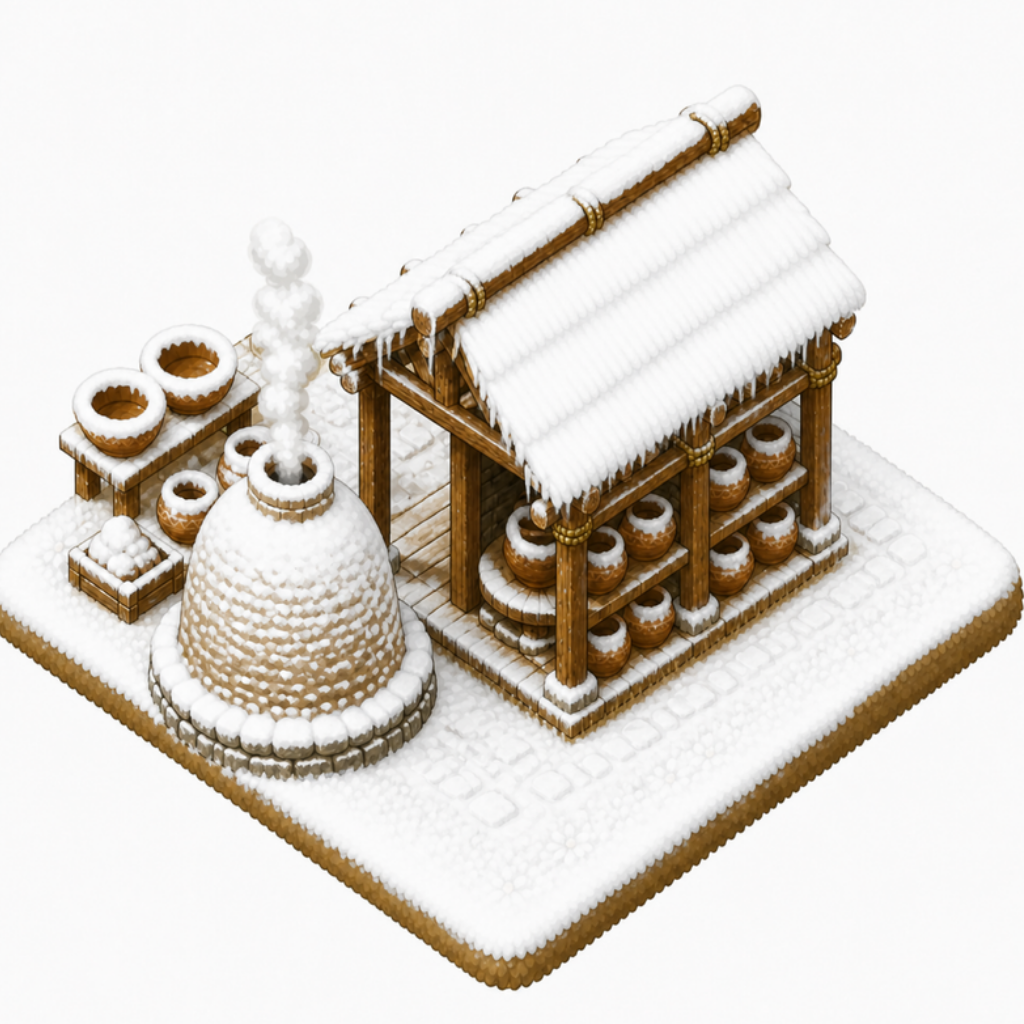
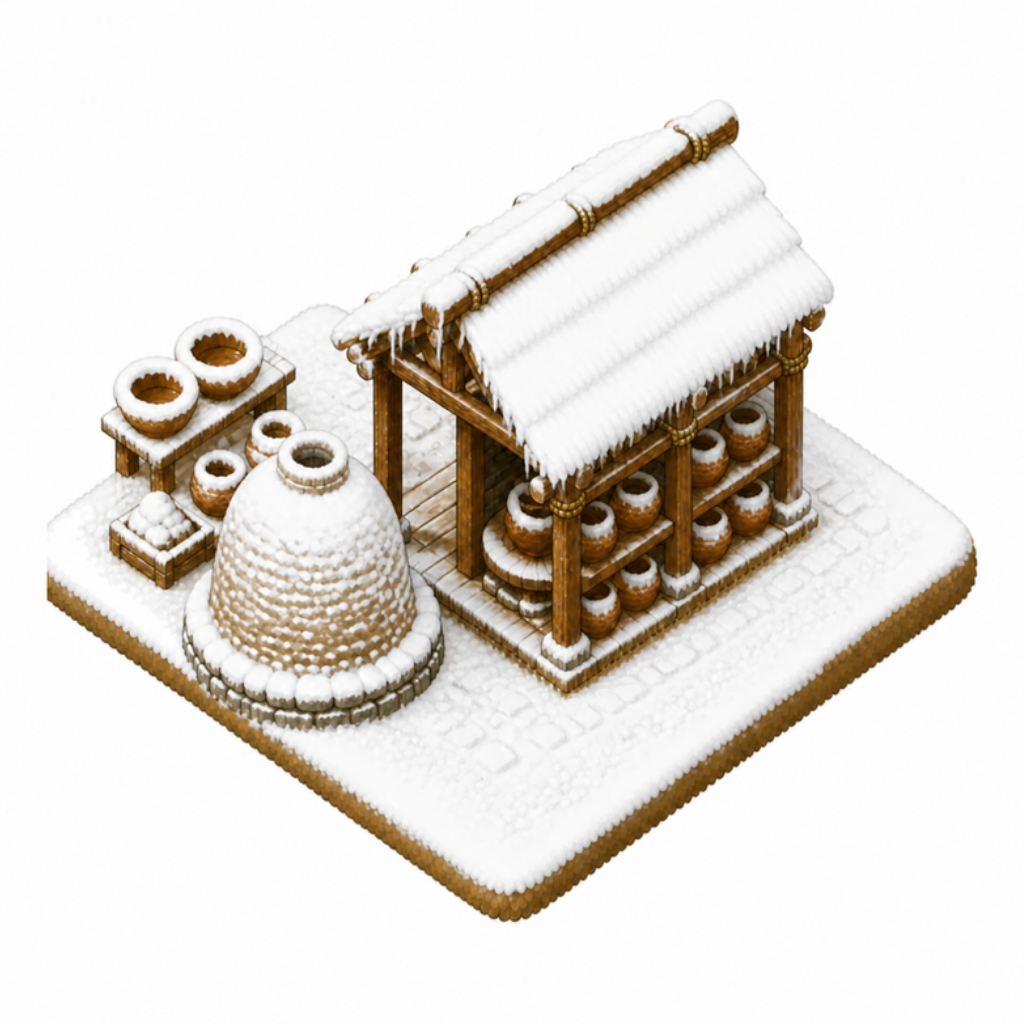
Epochia (gesammelt): Bilder aufgeräumt, Brücken-Holzmuster wird wieder geladen
Claude-Session: https://claude.ai/code/session_01W1n1hdvEnuKJoocRNGs93d

diff --git a/neu/js/zeichnen.js b/neu/js/zeichnen.js
@@ -235,6 +235,7 @@ function median(list) {
 function imageNames() {
   const names = new Set(['start', 'ladebild', 'logo', 'aeltester-1', 'baum-laub', 'baum-tanne', 'baum-birke',
     'fels-gross', 'fels-klein', 'busch', 'blumen', 'erdsockel', 'axt', 'hacke', 'setzling', 'truhe', 'band', 'logo-rund', 'berg-gross', 'berg-klein',
+    'leiste-holz-steinzeit',   // Holzmuster der Brücken (drawBridge), seit dem hellen Design versehentlich nicht mehr geladen
     'symbol-forschung', 'symbol-auftraege', 'symbol-haendler', 'symbol-schaetze', 'symbol-shop', 'symbol-grundriss', 'symbol-menue',
     ...Object.values(TREE_SEASONS).flat().filter(Boolean), ...GROUND_TEXTURES, ...LIFE_NAMES]);
   for (const b of Object.values(BUILDINGS)) if (b.bild) {

diff --git a/docs/wuensche.md b/docs/wuensche.md
@@ -31,7 +31,7 @@ Stichworte reichen, z. B. „- Farm zeigt falsche Arbeiterzahl nach dem Verschie
 ## Erledigt
 
 <!-- Claude verschiebt erledigte Punkte hierher, mit Datum und Version -->
-- 2026-11-08, gesammelt für die nächste Version – Wünsche Emin: ⚡-Knopf am Gebäude zum Beschleunigen von Bau und Ausbau mit Beschleunigungssteinen (jeder spart 5 Minuten, 3 zum Ausprobieren, weitere im Shop); „Neu“ in der Bauleiste nur noch für wirklich neue Gebäude, nicht für Weiterentwicklungen (Pflanzerin → Baumgärtnerin); starrer gemalter Rauch aus 10 Bildern entfernt (Feld, Felsritzer, Hallenhaus, Köhler, Kupferschmied, Töpferwerkstatt, Töpferei-Rückseite im Winter), dort steigt jetzt bewegter Rauch auf (neu/tools/rauch-weg.py); Tägliche Belohnung hochkant kompakt: Tag 1–6 in drei Spalten, große Truhe als breite Zeile.
+- 2026-11-08, gesammelt für die nächste Version – Wünsche Emin: Bilder aufgeräumt (ungenutzte Lederleiste entfernt, Originale an den richtigen Ort, Brücken haben wieder ihr Holzmuster – wurde seit dem hellen Design nicht mehr geladen), Töpferei-Rückseite im Winter neu aus Canva; ⚡-Knopf am Gebäude zum Beschleunigen von Bau und Ausbau mit Beschleunigungssteinen (jeder spart 5 Minuten, 3 zum Ausprobieren, weitere im Shop); „Neu“ in der Bauleiste nur noch für wirklich neue Gebäude, nicht für Weiterentwicklungen (Pflanzerin → Baumgärtnerin); starrer gemalter Rauch aus 10 Bildern entfernt (Feld, Felsritzer, Hallenhaus, Köhler, Kupferschmied, Töpferwerkstatt, Töpferei-Rückseite im Winter), dort steigt jetzt bewegter Rauch auf (neu/tools/rauch-weg.py); Tägliche Belohnung hochkant kompakt: Tag 1–6 in drei Spalten, große Truhe als breite Zeile.
 - 2026-11-08, Epochia Version 150–151 – Wunsch Emin (Canva weiter): Winterbilder von Jagdhütte und Feld; neues Werkzeug platte-fuellen.py schließt Schnee-Lücken am Plattenrand.
 - 2026-11-08, Epochia Version 142 – Wunsch Emin: Ladebildschirm mit Ladebalken und Prozent; nacheinander „✔ … geladen“ (Wiesen, Häuser, Wunderwerke …). Beim Tageslauf geprüft, war schon gebaut.
 - 2026-11-07, Epochia Version 149 – Fehler Emin: Nach einmal Quer ließ sich Android nicht zurück auf hochkant drehen – Drehung wird bei jedem Drehen und jeder Berührung neu freigegeben; Bauleiste hochkant ohne leeren Streifen links, Kategorien enden vor dem ▾-Knopf.
